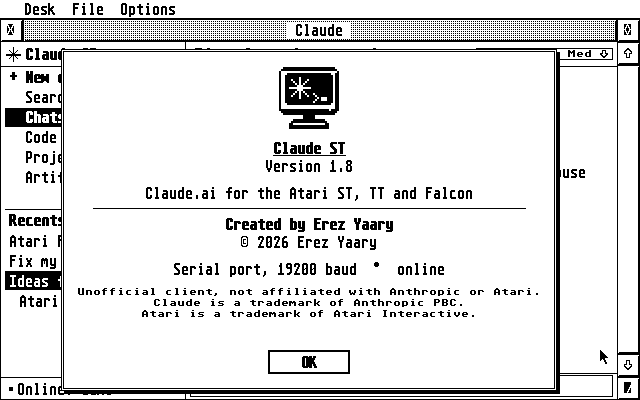
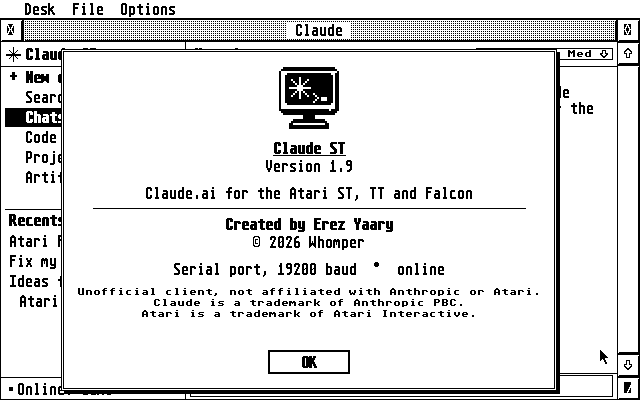
About box: (c) 2026 Whomper; version 1.9
Claude-Session: https://claude.ai/code/session_01XDMzbpSWQjz39M7P3K7C1y

diff --git a/st/claude.c b/st/claude.c
@@ -15,7 +15,7 @@
 #include "icon.h"
 #include "icon16.h"
 
-#define VERSION "1.8"
+#define VERSION "1.9"
 
 /* ------------------------------------------------------------------ */
 /* state                                                               */
@@ -2521,7 +2521,7 @@ static void about(void)
 	y += lh / 4;
 	center_text(y, "Created by Erez Yaary", 1);
 	y += lh;
-	center_text(y, "\xBD 2026 Erez Yaary", 0);
+	center_text(y, "\xBD 2026 Whomper", 0);
 	y += lh + lh / 2;
 	center_text(y, conn, 0);
 	y += lh + lh / 2;
